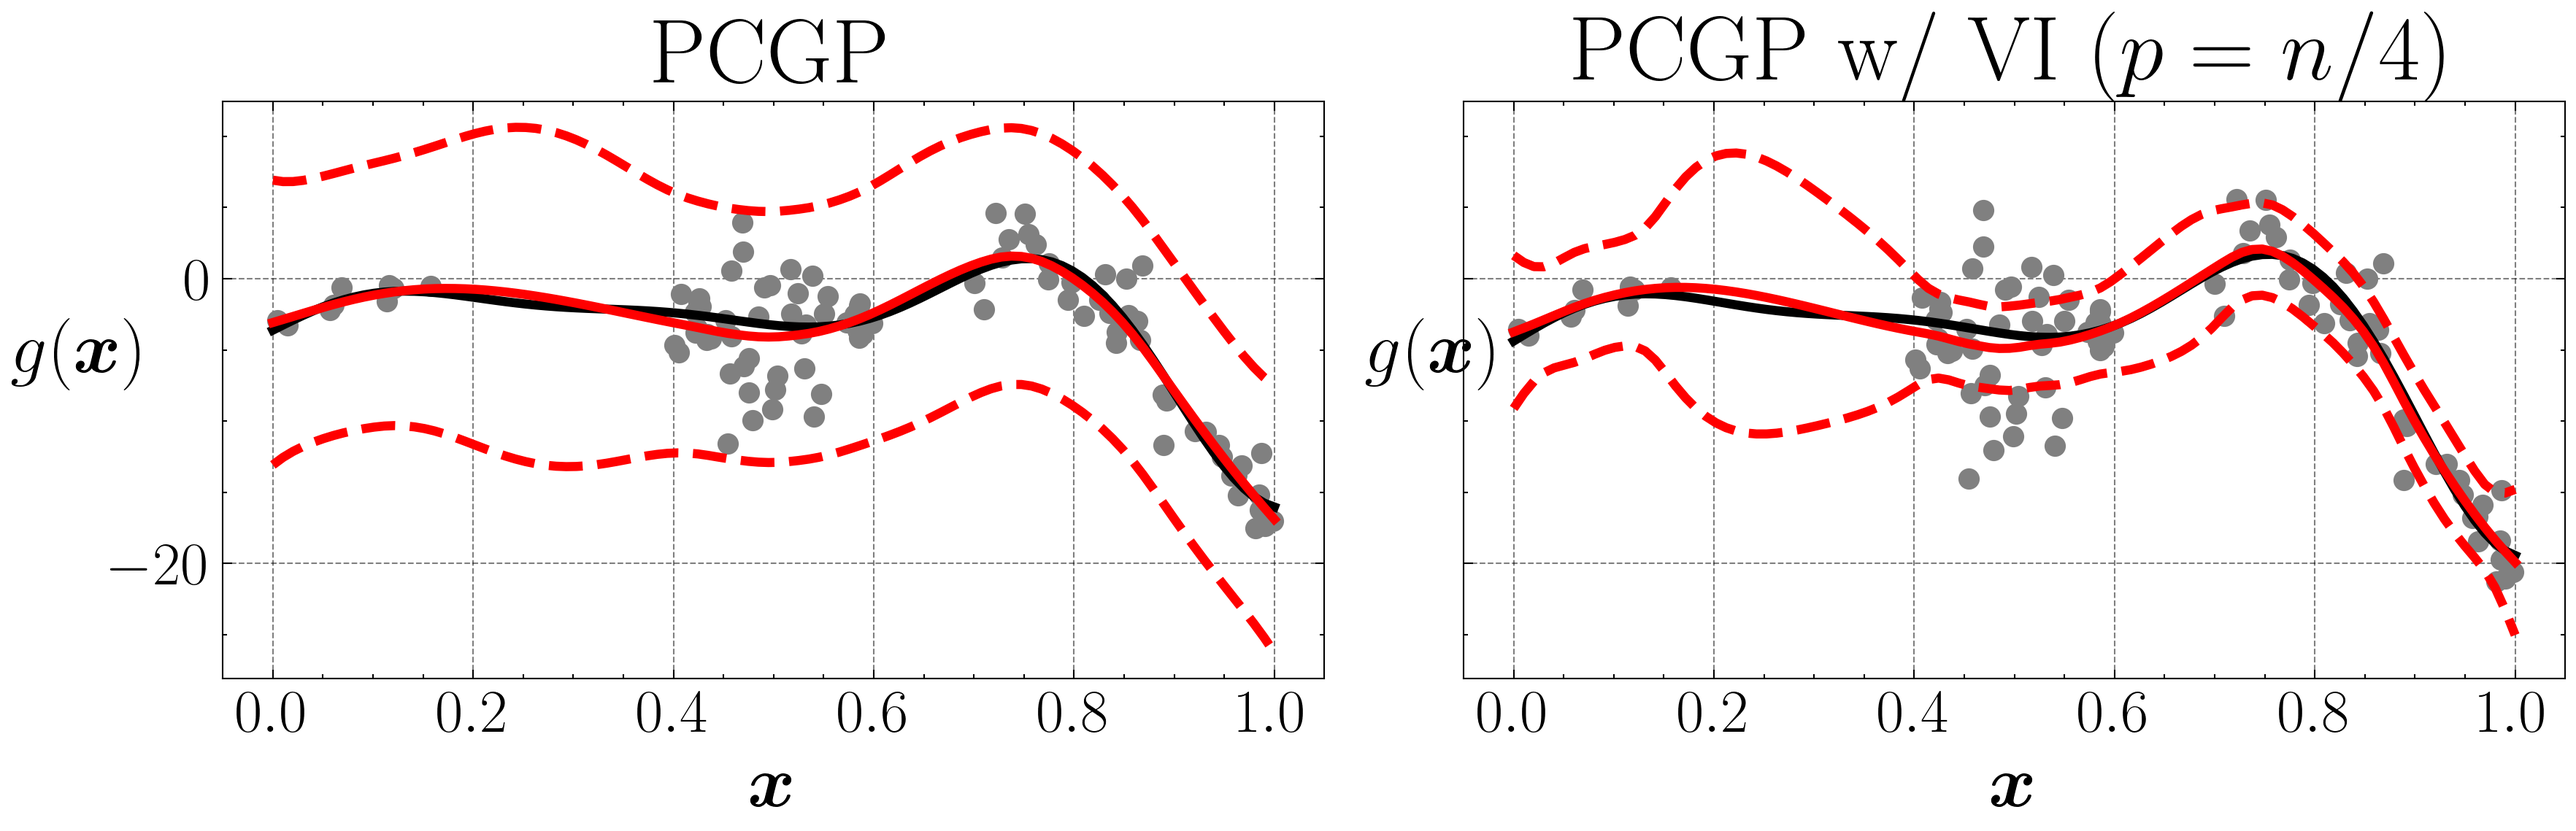
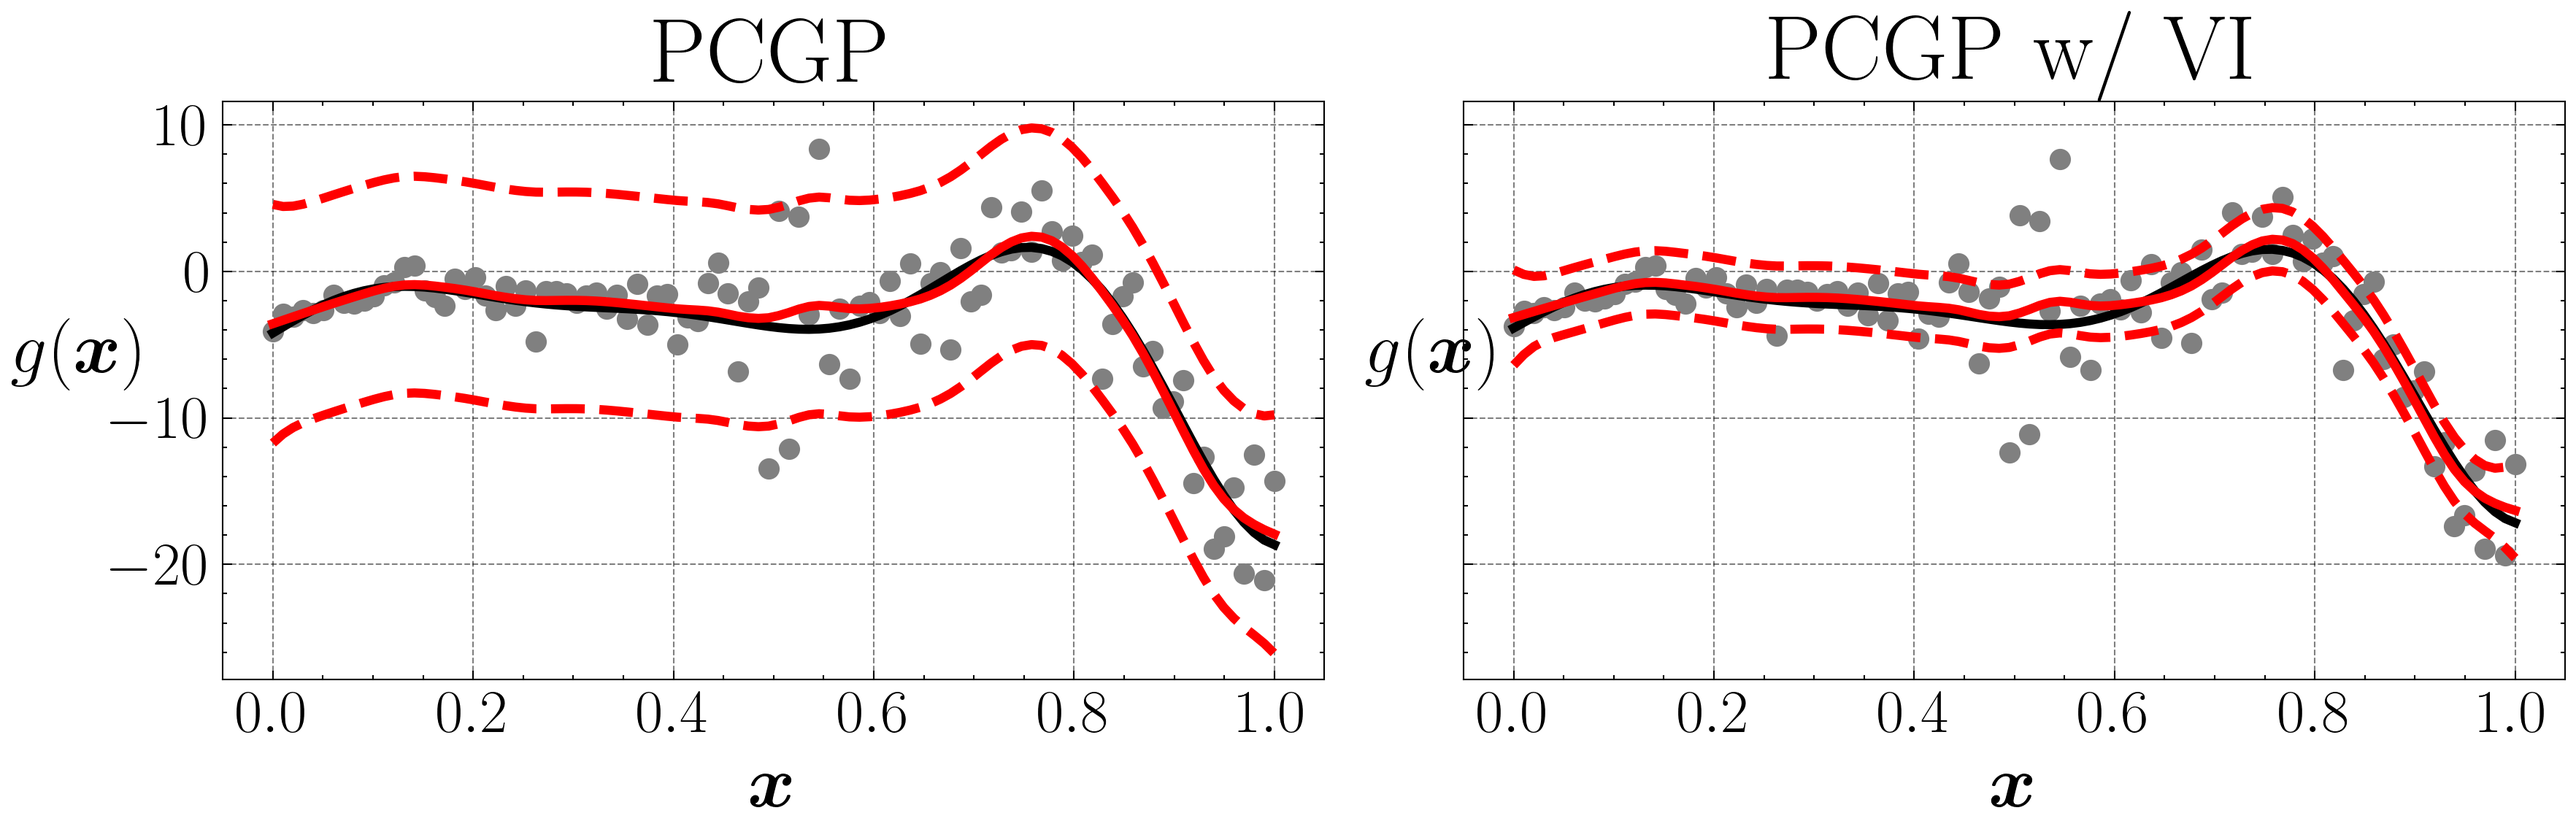
figures reorganization

diff --git a/code/gpVIIP/tests/test_noisy2d_sp.py b/code/gpVIIP/tests/test_noisy2d_sp.py
@@ -103,7 +103,7 @@ def plot(n, emupct, emumean, emustd,
     ax[0].set_title('PCGP', fontsize=30)
 
     ax[1].plot(xtest, ((model.Phi / model.pcw).T @ ftest).T, linewidth=lw, label='True', color='k')
-    ax[1].scatter(x, ((model.Phi / model.pcw).T @ f).T, label='Data', color='gray')
+    ax[1].scatter(x, model.M, label='Data', color='gray')
     ax[1].plot(xtest, ((model.Phi / model.pcw).T @ predmean).T, linewidth=lw, label='Prediction', color='r')
     ax[1].plot(xtest, ((model.Phi / model.pcw).T @ (predmean + 2*predstd)).T, linewidth=lw, linestyle='--', color='r')
     ax[1].plot(xtest, ((model.Phi / model.pcw).T @ (predmean - 2*predstd)).T, linewidth=lw, linestyle='--', color='r')
@@ -124,7 +124,7 @@ def plot(n, emupct, emumean, emustd,
 
 
 if __name__ == '__main__':
-    ns = [25, 50, 100, 250, 500, 1000]
+    ns = [25, 50, 100, 250]
     res = []
     for i in range(1):
         for n in ns:

diff --git a/code/gpVIIP/tests/test_borehole.py b/code/gpVIIP/tests/test_borehole.py
@@ -131,7 +131,6 @@ def test_single(method, n, seed, ftr, thetatr, fte, thetate,
         )
 
 
-
 if __name__ == '__main__':
     import pathlib
     res_dir = r'code/test_results/borehole_comparisons/surmise_MVGP_MVIP/'
